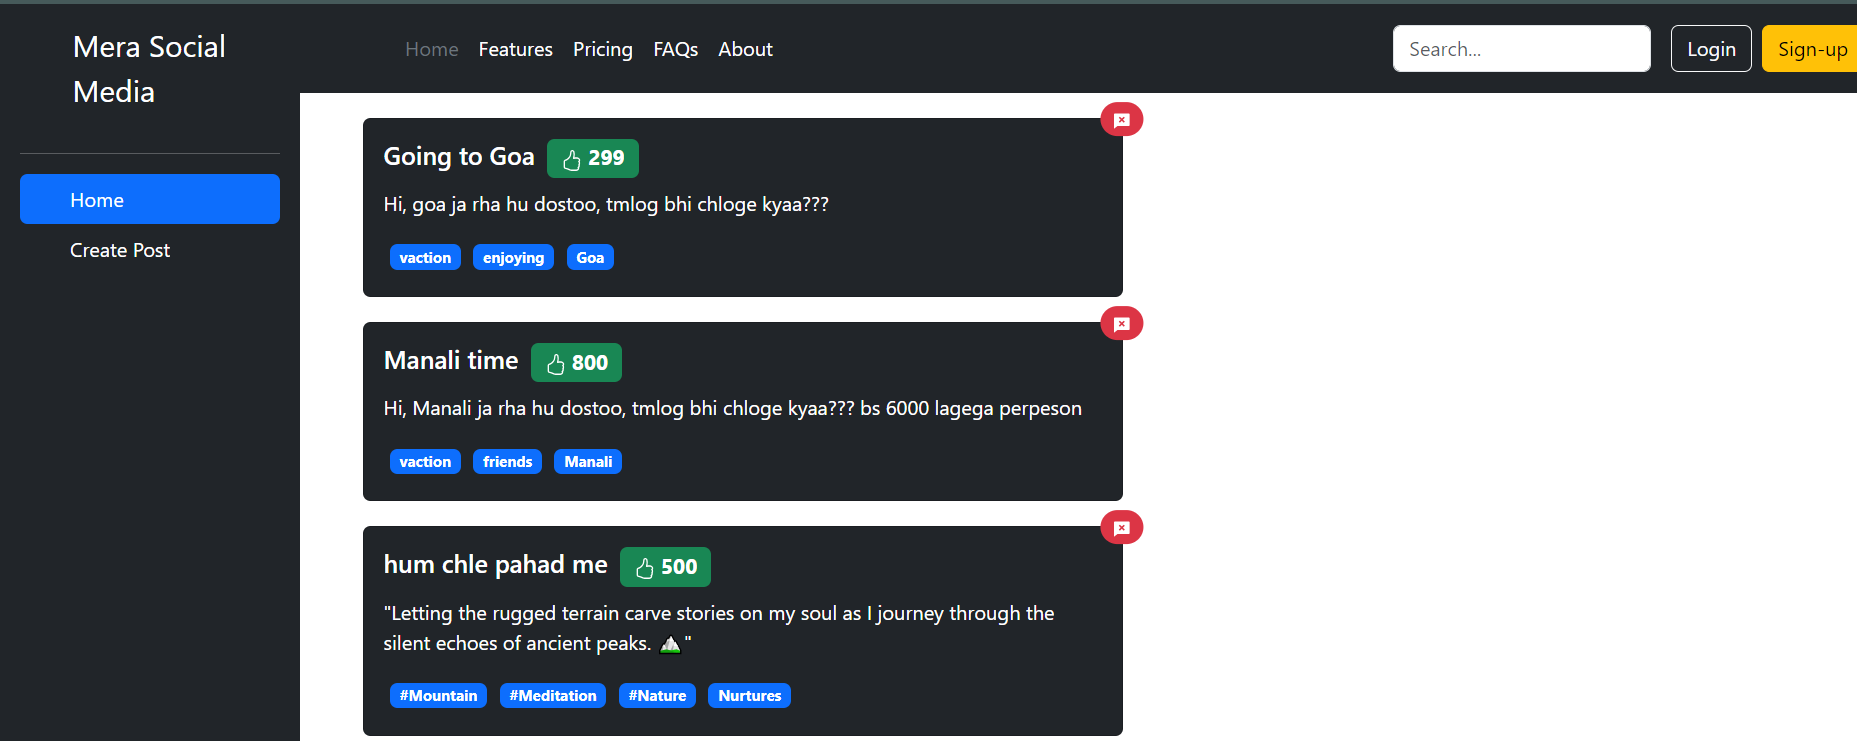
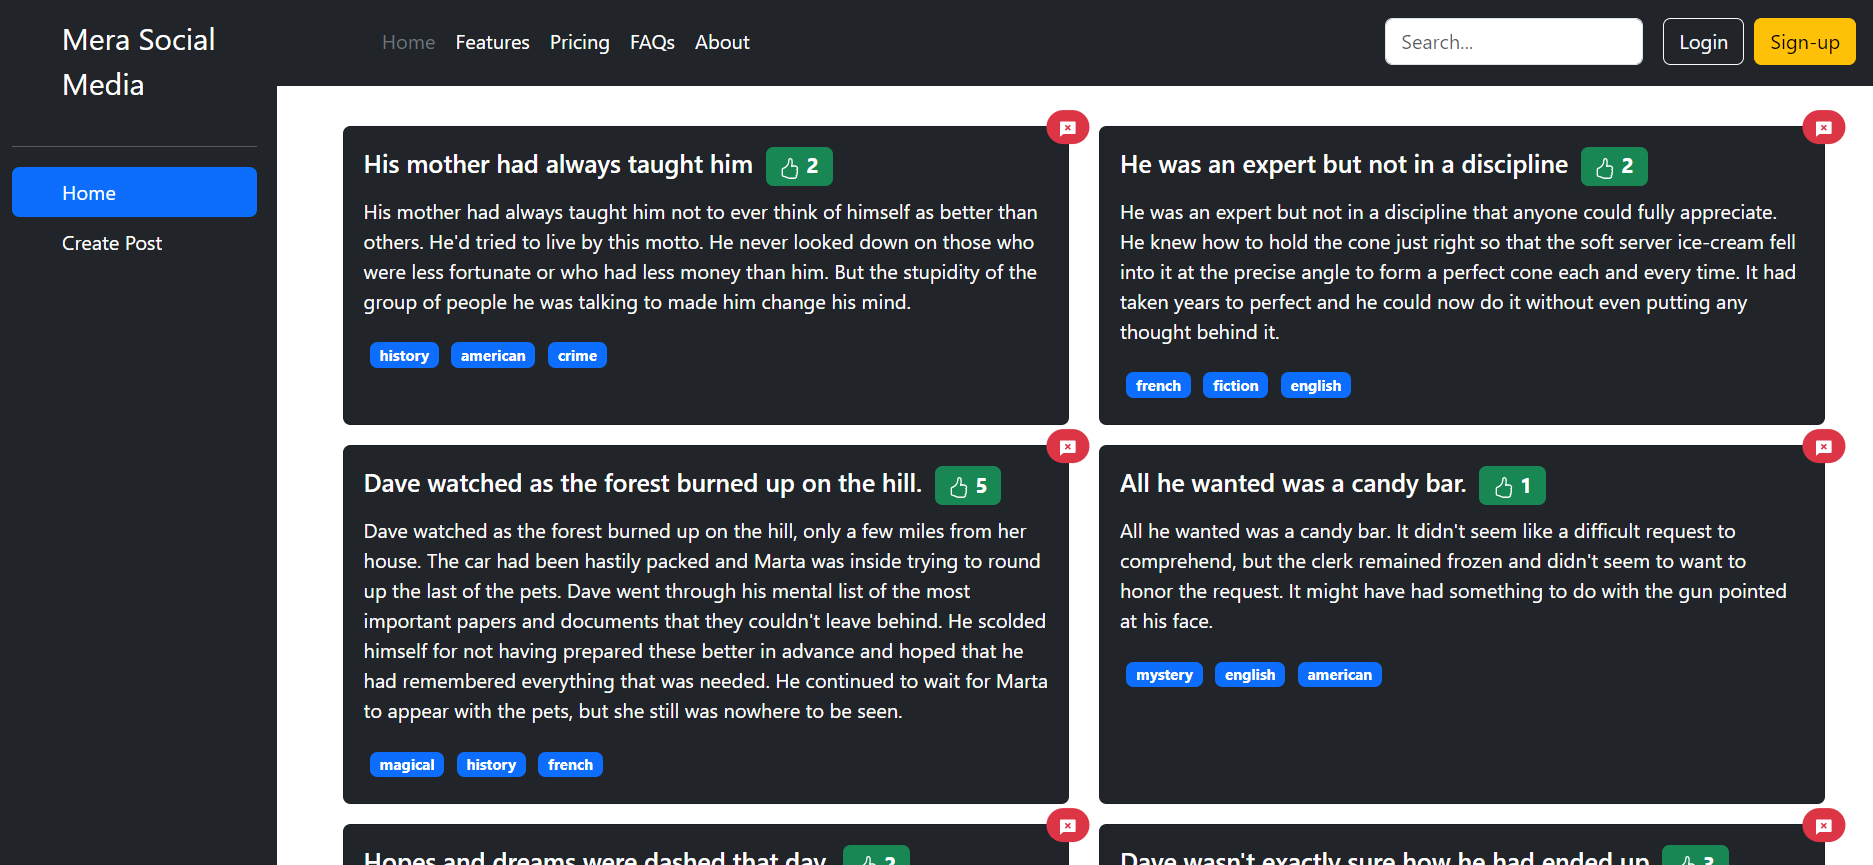
Using Dummy Json getting Posts from server

diff --git a/src/store/post-list-store.jsx b/src/store/post-list-store.jsx
@@ -4,16 +4,16 @@ const DEFAULT_POST_LIST = [{
     id: '1',
     title: 'Going to Goa',
     body: 'Hi, goa ja rha hu dostoo, tmlog bhi chloge kyaa???',
-    reaction: 299,
-    userID: "user-9",
+    reactions: 299,
+    userId: "user-9",
     tags: ["vaction", "enjoying", "Goa"]
 },
 {
     id: '2',
     title: 'Manali time',
     body: 'Hi, Manali ja rha hu dostoo, tmlog bhi chloge kyaa??? bs 6000 lagega perpeson',
-    reaction: 800,
-    userID: "user-2",
+    reactions: 800,
+    userId: "user-2",
     tags: ["vaction", "friends", "Manali"]
 }
 ]
@@ -21,6 +21,7 @@ const DEFAULT_POST_LIST = [{
 export const PostlistContext = createContext({
     postList: [],
     addPost: () => { },
+    addInitialPosts: () => { },
     deletePost: () => { }
 });
 
@@ -31,16 +32,16 @@ const postListReducer = (currPostList, action) => {
             (post) => post.id !== action.payload.id
         );
     } else if (action.type === "ADD_POST") {
-        console.log(action.payload.id);
-        console.log(action.payload);
         newPostList = [...currPostList, action.payload]
+    } else if (action.type === "ADD_INITIAL_POSTS") {
+        newPostList = action.payload;
     }
     return newPostList;
 
 }
 
 const PostListProvider = ({ children }) => {
-    const [postList, dispatchPostlist] = useReducer(postListReducer, DEFAULT_POST_LIST);
+    const [postList, dispatchPostlist] = useReducer(postListReducer, []);
     let lastObjId = 0;
     if (postList.length >= 1) {
         const lastObj = postList[postList.length - 1];
@@ -53,12 +54,18 @@ const PostListProvider = ({ children }) => {
                 id: 1 + Number(lastObjId),
                 title: title,
                 body: content,
-                reaction: numReactions,
+                reactions: numReactions,
                 tags: tags.split(' '),
-                userID: userID
+                userId: userID
             }
         })
     }
+    const addInitialPosts = (posts) => {
+        dispatchPostlist({
+            type: "ADD_INITIAL_POSTS",
+            payload: posts
+        })
+    } 
     const deletePost = (id) => {
         dispatchPostlist({
             type: "DELETE_POST",
@@ -69,7 +76,8 @@ const PostListProvider = ({ children }) => {
     }
     return <PostlistContext.Provider value={{
         postList,
-        addPost: addPost,
+        addPost,
+        addInitialPosts,
         deletePost
     }}>{children}</PostlistContext.Provider>;
 };

diff --git a/src/components/Post.jsx b/src/components/Post.jsx
@@ -6,9 +6,10 @@ import { PostlistContext } from "../store/post-list-store";
 const Post = ({ post }) => {
     const { deletePost } = useContext(PostlistContext)
     return <>
+
         <div className="card post-card bg-dark text-white" >
             <div className="card-body ">
-                <h5 className="card-title">{post.title}<span className="badge bg-success reaction"><BsHandThumbsUp /> {post.reaction}</span>
+                <h5 className="card-title">{post.title}<span className="badge bg-success reaction"><BsHandThumbsUp /> {post.reactions}</span>
                     <span className="position-absolute top-0 start-100 translate-middle badge rounded-pill bg-danger" onClick={() => deletePost(post.id)}>
                         <RiChatDeleteFill />
                         <span className="visually-hidden">unread messages</span>
@@ -18,6 +19,7 @@ const Post = ({ post }) => {
                 {post.tags.map((tag) => <span key={tag} className="badge bg-primary tags">{tag}</span>)}
             </div>
         </div>
+
     </>
 }
 

diff --git a/src/components/PostList.jsx b/src/components/PostList.jsx
@@ -1,12 +1,20 @@
 import { useContext } from "react";
 import Post from "./Post";
-import { PostlistContext} from "../store/post-list-store";
+import { PostlistContext } from "../store/post-list-store";
+import WelcomeMsg from "./WelcomeMsg";
 
 const PostList = () => {
-    const {postList} = useContext(PostlistContext);
+    const { postList, addInitialPosts } = useContext(PostlistContext);
+    const handleGetPostServer = () => {
+        fetch('https://dummyjson.com/posts')
+            .then(res => res.json())
+            .then((data) => addInitialPosts(data.posts))
+    }
     return <>
-    {postList.map((post) => <Post  key={post.id} post={post}/>)}
-    
+        {postList.length === 0 && <WelcomeMsg onGetPostServer={handleGetPostServer} />}
+        <div className="post-container">
+            {postList.map((post) => <Post key={post.id} post={post} />)}
+        </div>
     </>
 }
- export default PostList;
+export default PostList;

diff --git a/src/App.css b/src/App.css
@@ -3,8 +3,8 @@
 }
 
 .sidebar {
-    width: 240px;
-    height: 48rem;
+    width: 15%;
+    min-height: 48rem;
 }
 
 .content {
@@ -15,8 +15,7 @@
 }
 
 .post-card {
-    margin: 20px 50px;
-    width: 38rem;
+    width: 45%;
 }
 
 .reaction {
@@ -37,4 +36,13 @@
     width: 20rem;
     font-size: 2rem;
     margin: 10px 0px;
+}
+
+.post-container {
+    display: flex;
+    flex-wrap: wrap;
+    column-gap: 1.5rem;
+    row-gap: 1rem;
+    margin-top: 32px;
+    justify-content: center;
 }

diff --git a/src/components/WelcomeMsg.jsx b/src/components/WelcomeMsg.jsx
@@ -1,0 +1,9 @@
+const WelcomeMsg = ({onGetPostServer}) => {
+    return <center>
+        <h1>There is no post..</h1>
+        <button className="btn btn-primary" onClick={onGetPostServer}>Fetch post from server</button>
+    </center>
+
+}
+
+export default WelcomeMsg;

diff --git a/README.md b/README.md
@@ -6,6 +6,10 @@ Currently, two official plugins are available:
 
 - [@vitejs/plugin-react](https://github.com/vitejs/vite-plugin-react/blob/main/packages/plugin-react/README.md) uses [Babel](https://babeljs.io/) for Fast Refresh
 - [@vitejs/plugin-react-swc](https://github.com/vitejs/vite-plugin-react-swc) uses [SWC](https://swc.rs/) for Fast Refresh
+
+When there is no posts
+![Alt text](nopost.png)
+
 Home Page
 ![Alt text](./src/assets/image.png)
 ![Alt text](./src/assets/image2.png)
